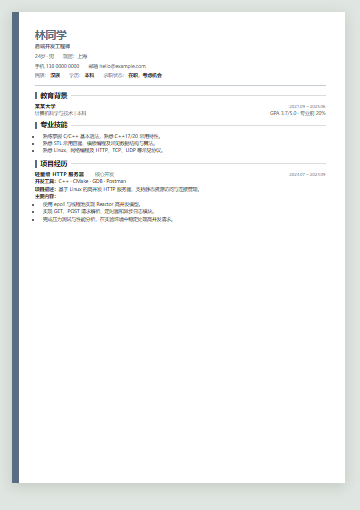
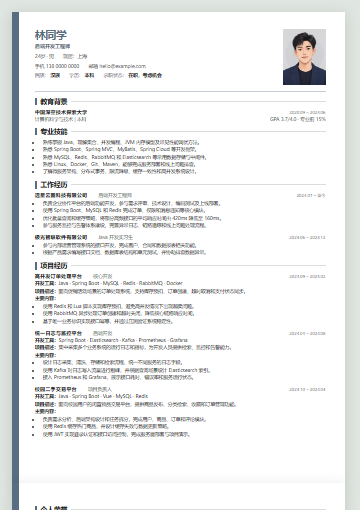
feat: 丰富内置示例简历与模板缩略图

diff --git a/src/model/resume.ts b/src/model/resume.ts
@@ -11,6 +11,7 @@ export const RESUME_TEMPLATE_IDS = [
 ] as const;
 export type ResumeTemplateId = typeof RESUME_TEMPLATE_IDS[number];
 export const DEFAULT_RESUME_TEMPLATE: ResumeTemplateId = "classic";
+export const DEFAULT_PROFILE_PHOTO = "./sample/fictional-engineer.png";
 
 export function normalizeResumeTemplateId(value: unknown): ResumeTemplateId {
   return typeof value === "string" && (RESUME_TEMPLATE_IDS as readonly string[]).includes(value)
@@ -152,36 +153,36 @@ function paragraph(content: RichTextNode[]): RichTextNode {
   return { type: "paragraph", content };
 }
 
-function projectBody(): RichTextDocument {
+function bulletList(items: string[]): RichTextNode {
+  return {
+    type: "bulletList",
+    content: items.map((value) => ({ type: "listItem", content: [paragraph([text(value)])] })),
+  };
+}
+
+function projectBody(tools: string, description: string, items: string[]): RichTextDocument {
   return {
     type: "doc",
     content: [
-      paragraph([text("开发工具：", true), text("C++ · CMake · GDB · Postman")]),
-      paragraph([text("项目描述：", true), text("基于 Linux 的高并发 HTTP 服务器，支持静态资源访问与连接管理。")]),
+      paragraph([text("开发工具：", true), text(tools)]),
+      paragraph([text("项目描述：", true), text(description)]),
       paragraph([text("主要内容：", true)]),
-      {
-        type: "bulletList",
-        content: [
-          "使用 epoll 与线程池实现 Reactor 高并发模型。",
-          "实现 GET、POST 请求解析、定时器和异步日志模块。",
-          "完成压力测试与性能分析，在实验环境中稳定处理高并发请求。",
-        ].map((value) => ({ type: "listItem", content: [paragraph([text(value)])] })),
-      },
+      bulletList(items),
     ],
   };
 }
 
-function skillsBody(): RichTextDocument {
+function bulletBody(items: string[]): RichTextDocument {
   return {
     type: "doc",
-    content: [{
-      type: "bulletList",
-      content: [
-        "熟练掌握 C/C++ 基本语法，熟悉 C++17/20 常用特性。",
-        "熟悉 STL 常用容器、模板编程及常见数据结构与算法。",
-        "熟悉 Linux、网络编程及 HTTP、TCP、UDP 等常见协议。",
-      ].map((value) => ({ type: "listItem", content: [paragraph([text(value)])] })),
-    }],
+    content: [bulletList(items)],
+  };
+}
+
+function selfEvaluationBody(): RichTextDocument {
+  return {
+    type: "doc",
+    content: [paragraph([text("具备扎实的后端开发基础和良好的工程实践能力，能够独立完成需求分析、技术设计、功能开发和问题排查。重视代码质量与系统稳定性，面对复杂问题能够主动分析并持续推进解决；具备良好的沟通协作意识，能够与产品、前端和测试人员共同完成项目交付。")])],
   };
 }
 
@@ -202,7 +203,7 @@ export function createDefaultResume(): ResumeDocument {
       location: "现居：上海",
       phone: "138 0000 0000",
       email: "hello@example.com",
-      photo: "",
+      photo: DEFAULT_PROFILE_PHOTO,
       details: [
         { id: makeId(), label: "民族", value: "汉族" },
         { id: makeId(), label: "学历", value: "本科" },
@@ -215,21 +216,106 @@ export function createDefaultResume(): ResumeDocument {
         type: "education",
         title: "教育背景",
         enabled: true,
-        items: [{ id: makeId(), school: "某某大学", date: "2021.09 – 2025.06", major: "计算机科学与技术", degree: "本科", detail: "GPA 3.7/5.0 · 专业前 20%" }],
+        items: [{ id: makeId(), school: "中国深空技术探索大学", date: "2020.09 – 2024.06", major: "计算机科学与技术", degree: "本科", detail: "GPA 3.7/4.0 · 专业前 15%" }],
       },
       {
         id: makeId(),
         type: "content",
         title: "专业技能",
         enabled: true,
-        entries: [{ id: makeId(), title: "", subtitle: "", date: "", body: skillsBody() }],
+        entries: [{
+          id: makeId(), title: "", subtitle: "", date: "", body: bulletBody([
+            "熟练掌握 Java，理解集合、并发编程、JVM 内存模型及常见性能调优方法。",
+            "熟悉 Spring Boot、Spring MVC、MyBatis、Spring Cloud 等开发框架。",
+            "熟悉 MySQL、Redis、RabbitMQ 和 Elasticsearch 等常用数据存储与中间件。",
+            "熟悉 Linux、Docker、Git、Maven，能够完成服务部署和线上问题排查。",
+            "了解微服务架构、分布式事务、限流降级、缓存一致性和高并发系统设计。",
+          ])
+        }],
+      },
+      {
+        id: makeId(),
+        type: "content",
+        title: "工作经历",
+        enabled: true,
+        entries: [
+          {
+            id: makeId(), title: "远星云图科技有限公司", subtitle: "后端开发工程师", date: "2024.07 – 至今", body: bulletBody([
+              "负责企业协作平台的后端功能开发，参与需求评审、技术设计、编码测试及上线部署。",
+              "使用 Spring Boot、MySQL 和 Redis 完成订单、权限和消息通知等核心模块。",
+              "优化批量查询和缓存策略，将部分高频接口的平均响应时间由 420ms 降低至 160ms。",
+              "参与服务监控与告警体系建设，完善异常日志、链路追踪和线上问题处理流程。",
+            ])
+          },
+          {
+            id: makeId(), title: "极光智联软件有限公司", subtitle: "Java 开发实习生", date: "2023.06 – 2023.12", body: bulletBody([
+              "参与内部运营管理系统的接口开发，完成客户、合同和数据报表相关功能。",
+              "根据产品需求编写接口文档、数据库表结构和单元测试，并协助排查数据异常。",
+            ])
+          },
+        ],
       },
       {
         id: makeId(),
         type: "content",
         title: "项目经历",
         enabled: true,
-        entries: [{ id: makeId(), title: "轻量级 HTTP 服务器", subtitle: "核心开发", date: "2024.07 – 2024.09", body: projectBody() }],
+        entries: [
+          {
+            id: makeId(), title: "高并发订单处理平台", subtitle: "核心开发", date: "2024.09 – 2025.02", body: projectBody(
+              "Java · Spring Boot · MySQL · Redis · RabbitMQ · Docker",
+              "面向促销活动场景的订单处理系统，支持库存预扣、订单创建、超时取消和支付状态同步。",
+              [
+                "使用 Redis 和 Lua 脚本实现库存预扣，避免高并发情况下出现超卖问题。",
+                "使用 RabbitMQ 异步处理订单创建和超时关闭，降低核心链路响应时间。",
+                "基于唯一业务标识实现接口幂等，并通过压测验证系统稳定性。",
+              ],
+            )
+          },
+          {
+            id: makeId(), title: "统一日志与监控平台", subtitle: "后端开发", date: "2024.04 – 2024.08", body: projectBody(
+              "Spring Boot · Elasticsearch · Kafka · Prometheus · Grafana",
+              "集中采集多个业务系统的运行日志和指标，为开发人员提供检索、监控和告警能力。",
+              [
+                "设计日志采集、清洗、存储和检索流程，统一不同服务的日志字段。",
+                "使用 Kafka 对日志写入流量进行削峰，并根据查询场景设计 Elasticsearch 索引。",
+                "接入 Prometheus 和 Grafana，展示接口耗时、错误率和服务运行状态。",
+              ],
+            )
+          },
+          {
+            id: makeId(), title: "校园二手交易平台", subtitle: "项目负责人", date: "2023.10 – 2024.03", body: projectBody(
+              "Java · Spring Boot · Vue · MySQL · Redis",
+              "面向校园用户的闲置物品交易平台，提供商品发布、分类检索、收藏和订单管理功能。",
+              [
+                "负责需求分析、后端架构设计和任务拆分，完成用户、商品、订单和评论模块。",
+                "使用 Redis 缓存热门商品，并设计缓存失效与数据更新策略。",
+                "使用 JWT 实现登录认证和接口访问控制，完成服务器部署与项目演示。",
+              ],
+            )
+          },
+        ],
+      },
+      {
+        id: makeId(),
+        type: "content",
+        title: "个人荣誉",
+        enabled: true,
+        entries: [{
+          id: makeId(), title: "", subtitle: "", date: "", body: bulletBody([
+            "获得校级一等奖学金和“三好学生”荣誉称号。",
+            "获得大学生程序设计竞赛校级二等奖。",
+            "获得 2025 年度“最美软件工程师”荣誉称号。",
+            "获得 2026 年度“感动中国十大人物之一”荣誉称号。",
+          ])
+        }],
+      },
+      {
+        id: makeId(),
+        type: "content",
+        title: "自我评价",
+        enabled: true,
+        entries: [{ id: makeId(), title: "", subtitle: "", date: "", body: selfEvaluationBody() }],
       },
     ],
   };
@@ -251,7 +337,7 @@ export function createStarterResume(): ResumeDocument {
   const content = (title: string) => ({ ...(createSection("content") as ContentSection), title });
   return {
     ...resume,
-    sections: [content("求职意向"), content("工作经历"), content("项目经历"), createSection("education"), content("专业技能"), content("自我评价")],
+    sections: [createSection("education"), content("专业技能"), content("工作经历"), content("项目经历"), content("个人荣誉"), content("自我评价")],
   };
 }
 

diff --git a/src/model/resume.test.ts b/src/model/resume.test.ts
@@ -1,5 +1,6 @@
 import { describe, expect, it } from "vitest";
 import {
+  DEFAULT_PROFILE_PHOTO,
   createBlankResume,
   createDefaultResume,
   createSection,
@@ -21,13 +22,33 @@ describe("resume model", () => {
     expect(isResumeDocument(resume)).toBe(true);
     expect(resume.schemaVersion).toBe(3);
     expect(resume.theme.templateId).toBe("classic");
+    expect(resume.profile.photo).toBe(DEFAULT_PROFILE_PHOTO);
+    const education = resume.sections.find((section) => section.title === "教育背景");
+    expect(education?.type).toBe("education");
+    if (education?.type === "education") {
+      expect(education.items[0].school).toBe("中国深空技术探索大学");
+    }
     const projects = resume.sections.find((section) => section.title === "项目经历");
     expect(projects?.type).toBe("content");
     if (projects?.type === "content") {
-      expect(projects.entries[0].title).toBe("轻量级 HTTP 服务器");
+      expect(projects.entries).toHaveLength(3);
+      expect(projects.entries[0].title).toBe("高并发订单处理平台");
       expect(JSON.stringify(projects.entries[0].body)).toContain("开发工具");
       expect(JSON.stringify(projects.entries[0].body)).toContain("bulletList");
     }
+    const work = resume.sections.find((section) => section.title === "工作经历");
+    expect(work?.type === "content" && work.entries).toHaveLength(2);
+    for (const title of ["专业技能", "个人荣誉", "自我评价"]) {
+      const section = resume.sections.find((candidate) => candidate.title === title);
+      expect(section?.type).toBe("content");
+      if (section?.type === "content") {
+        expect(section.entries[0]).toMatchObject({ title: "", subtitle: "", date: "" });
+      }
+    }
+    const honors = resume.sections.find((section) => section.title === "个人荣誉");
+    const evaluation = resume.sections.find((section) => section.title === "自我评价");
+    expect(honors?.type === "content" && JSON.stringify(honors.entries[0].body)).toContain("bulletList");
+    expect(evaluation?.type === "content" && JSON.stringify(evaluation.entries[0].body)).not.toContain("bulletList");
   });
 
   it("creates blank documents and independent resume copies", () => {
@@ -42,15 +63,15 @@ describe("resume model", () => {
     const starter = createStarterResume();
     expect(starter.profile.name).toBe("");
     expect(starter.sections.map((section) => section.title)).toEqual([
-      "求职意向",
-      "工作经历",
-      "项目经历",
       "教育背景",
       "专业技能",
+      "工作经历",
+      "项目经历",
+      "个人荣誉",
       "自我评价",
     ]);
     expect(JSON.stringify(starter)).not.toContain("某某大学");
-    expect(JSON.stringify(starter)).not.toContain("轻量级 HTTP 服务器");
+    expect(JSON.stringify(starter)).not.toContain("高并发订单处理平台");
   });
 
   it("creates one neutral content entry for every custom module", () => {
@@ -82,7 +103,11 @@ describe("resume model", () => {
     if (skills?.type === "content") {
       expect(skills.entries[0]).toMatchObject({ title: "", subtitle: "", date: "" });
     }
-    expect(starter.sections.some((section) => section.title === "个人荣誉")).toBe(false);
+    const honors = starter.sections.find((section) => section.title === "个人荣誉");
+    expect(honors?.type).toBe("content");
+    if (honors?.type === "content") {
+      expect(honors.entries[0]).toMatchObject({ title: "", subtitle: "", date: "" });
+    }
   });
 
   it("moves and drags sections without mutating the input", () => {

diff --git a/src/export/typstPdf.ts b/src/export/typstPdf.ts
@@ -2,7 +2,7 @@ import { createTypstCompiler, loadFonts } from "@myriaddreamin/typst.ts";
 import { CompileFormatEnum } from "@myriaddreamin/typst.ts/compiler";
 import * as compilerWrapper from "@myriaddreamin/typst-ts-web-compiler";
 import compilerWasmUrl from "@myriaddreamin/typst-ts-web-compiler/wasm?url";
-import { getDensityLayout, type ContentEntry, type RichTextDocument, type RichTextNode, type ResumeDocument, type ResumeSection, type ResumeTemplateId } from "../model/resume";
+import { DEFAULT_PROFILE_PHOTO, getDensityLayout, type ContentEntry, type RichTextDocument, type RichTextNode, type ResumeDocument, type ResumeSection, type ResumeTemplateId } from "../model/resume";
 
 const asString = (value: string) => JSON.stringify(value);
 const withUnit = (value: number, unit: string) => `${Math.round(value * 100) / 100}${unit}`;
@@ -13,13 +13,19 @@ const extensionCompilerWrapper = {
 };
 
 function photoAssetPath(photo: string): string | null {
+  if (photo === DEFAULT_PROFILE_PHOTO) return "/profile-photo.png";
   const mime = /^data:(image\/(?:png|jpeg|webp|svg\+xml));base64,/.exec(photo)?.[1];
   if (!mime) return null;
   const extension = { "image/png": "png", "image/jpeg": "jpg", "image/webp": "webp", "image/svg+xml": "svg" }[mime];
   return extension ? `/profile-photo.${extension}` : null;
 }
 
-function photoBytes(photo: string): Uint8Array | null {
+async function photoBytes(photo: string): Promise<Uint8Array | null> {
+  if (photo === DEFAULT_PROFILE_PHOTO) {
+    const response = await fetch(new URL(photo, window.location.href));
+    if (!response.ok) throw new Error("无法读取内置示例头像");
+    return new Uint8Array(await response.arrayBuffer());
+  }
   const encoded = photo.split(",", 2)[1];
   if (!encoded) return null;
   const binary = atob(encoded);
@@ -289,7 +295,7 @@ export async function exportTypstPdf(resume: ResumeDocument): Promise<void> {
     compiler.unmapShadow(`/profile-photo.${extension}`);
   }
   const photoPath = photoAssetPath(resume.profile.photo);
-  const bytes = photoBytes(resume.profile.photo);
+  const bytes = await photoBytes(resume.profile.photo);
   if (photoPath && bytes) compiler.mapShadow(photoPath, bytes);
   compiler.addSource("/main.typ", createTypstSource(resume));
   const compilation = await compiler.compile({

diff --git a/src/export/typstPdf.test.ts b/src/export/typstPdf.test.ts
@@ -7,9 +7,10 @@ describe("Typst source generator", () => {
     const resume = createDefaultResume();
     const source = createTypstSource(resume);
     expect(source).toContain("教育背景");
-    expect(source).toContain("轻量级 HTTP 服务器");
+    expect(source).toContain("高并发订单处理平台");
     expect(source).toContain("开发工具：");
     expect(source).toContain("#list(");
+    expect(source).toContain('image("/profile-photo.png"');
     expect(source).toContain(resume.theme.accent);
     expect(source).not.toContain("基本信息");
   });
